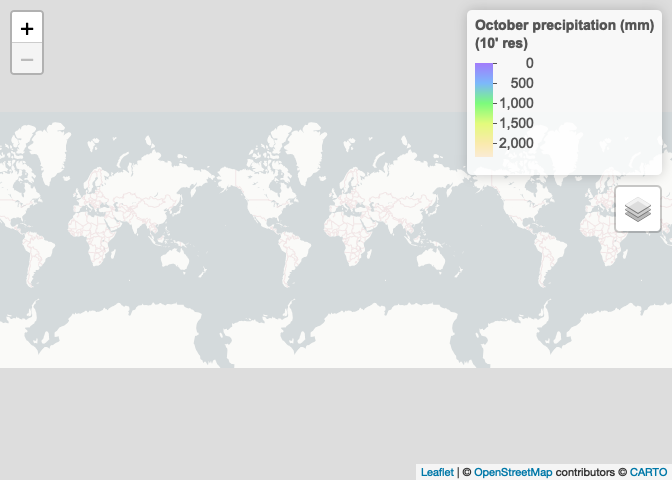
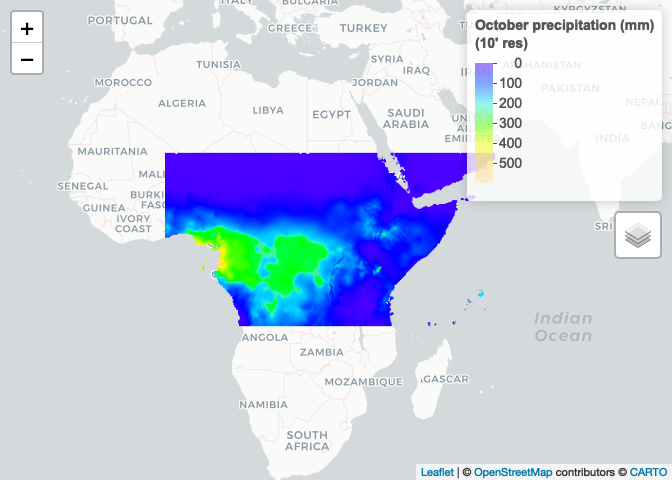
Adam's fixes for leaflet in lab 4

diff --git a/_site/lab-4/index.html b/_site/lab-4/index.html
@@ -66,7 +66,7 @@ getData function. Let’s see what’s in there!</p>
 </span><span class="c1">#OLD ?raster::getData()</span><span class="w">
 </span><span class="c1">#NEW </span><span class="w">
 
-</span><span class="o">?</span><span class="n">geodata</span><span class="o">-</span><span class="n">package</span><span class="w">
+</span><span class="o">?</span><span class="n">geodata</span><span class="w">
 </span></code></pre></div></div>
 
 <p>So you can download administrative boundaries (option name = ‘GADM’),
@@ -215,8 +215,20 @@ arguments…</p>
 
 </span><span class="c1">#NEW </span><span class="w">
 </span><span class="n">ETH_prec_10</span><span class="w"> </span><span class="o">&lt;-</span><span class="w"> </span><span class="n">as</span><span class="p">(</span><span class="n">worldclim_global</span><span class="p">(</span><span class="n">var</span><span class="o">=</span><span class="s2">"prec"</span><span class="p">,</span><span class="w"> </span><span class="n">res</span><span class="o">=</span><span class="m">10</span><span class="p">,</span><span class="w"> </span><span class="n">path</span><span class="o">=</span><span class="n">tempdir</span><span class="p">(),</span><span class="w"> </span><span class="n">version</span><span class="o">=</span><span class="s2">"2.1"</span><span class="p">),</span><span class="w"> </span><span class="s2">"Raster"</span><span class="p">)</span><span class="w">
+</span><span class="n">ETH_prec_10</span><span class="w">
+</span></code></pre></div></div>
 
-</span><span class="c1"># Precipitation from worldclim at the 0.5 resolution (minutes of a degree)... need to specifiy 'lon' and 'lat' of the tile looked for</span><span class="w">
+<div class="language-plaintext highlighter-rouge"><div class="highlight"><pre class="highlight"><code>## class      : RasterStack 
+## dimensions : 1080, 2160, 2332800, 12  (nrow, ncol, ncell, nlayers)
+## resolution : 0.1666667, 0.1666667  (x, y)
+## extent     : -180, 180, -90, 90  (xmin, xmax, ymin, ymax)
+## crs        : +proj=longlat +datum=WGS84 +no_defs 
+## names      : wc2.1_10m_prec_01, wc2.1_10m_prec_02, wc2.1_10m_prec_03, wc2.1_10m_prec_04, wc2.1_10m_prec_05, wc2.1_10m_prec_06, wc2.1_10m_prec_07, wc2.1_10m_prec_08, wc2.1_10m_prec_09, wc2.1_10m_prec_10, wc2.1_10m_prec_11, wc2.1_10m_prec_12 
+## min values :                 0,                 0,                 0,                 0,                 0,                 0,                 0,                 0,                 0,                 0,                 0,                 0 
+## max values :               908,               793,               720,              1004,              2068,              2210,              2381,              1674,              1955,              2328,               718,               806
+</code></pre></div></div>
+
+<div class="language-r highlighter-rouge"><div class="highlight"><pre class="highlight"><code><span class="c1"># Precipitation from worldclim at the 0.5 resolution (minutes of a degree)... need to specifiy 'lon' and 'lat' of the tile looked for</span><span class="w">
 </span><span class="c1">#OLD ETH_prec_0.5 &lt;- raster::getData(name = "worldclim",</span><span class="w">
                      </span><span class="c1">#       var = "prec",</span><span class="w">
                      </span><span class="c1">#       res = 0.5,</span><span class="w">
@@ -270,7 +282,7 @@ arguments…</p>
 </code></pre></div></div>
 
 <div class="language-r highlighter-rouge"><div class="highlight"><pre class="highlight"><code><span class="c1"># Restrict to October and plot</span><span class="w">
-</span><span class="n">ETH_prec_10_Oct</span><span class="w"> </span><span class="o">&lt;-</span><span class="w"> </span><span class="n">ETH_prec_10</span><span class="p">[[</span><span class="m">10</span><span class="p">]]</span><span class="w">
+</span><span class="n">ETH_prec_10_Oct</span><span class="w"> </span><span class="o">&lt;-</span><span class="w"> </span><span class="n">crop</span><span class="p">(</span><span class="n">ETH_prec_10</span><span class="p">[[</span><span class="m">10</span><span class="p">]],</span><span class="w"> </span><span class="nf">c</span><span class="p">(</span><span class="m">0</span><span class="p">,</span><span class="m">60</span><span class="p">,</span><span class="m">-10</span><span class="p">,</span><span class="m">20</span><span class="p">))</span><span class="w"> </span><span class="c1"># xmin, xmax, ymin, ymax</span><span class="w">
 </span><span class="n">ETH_prec_0.5_Oct</span><span class="w"> </span><span class="o">&lt;-</span><span class="w"> </span><span class="n">ETH_prec_0.5</span><span class="p">[[</span><span class="m">10</span><span class="p">]]</span><span class="w">
 
 
@@ -323,11 +335,16 @@ arguments…</p>
 for South Sudan?</em></p>
 
 <div class="language-r highlighter-rouge"><div class="highlight"><pre class="highlight"><code><span class="c1"># Precipitation from worldclim at the 0.5 resolution (minutes of a degree)... Left half of South Sudan</span><span class="w">
-</span><span class="n">SSD_prec_0.5_left</span><span class="w"> </span><span class="o">&lt;-</span><span class="w"> </span><span class="n">raster</span><span class="o">::</span><span class="n">getData</span><span class="p">(</span><span class="n">name</span><span class="w"> </span><span class="o">=</span><span class="w"> </span><span class="s2">"worldclim"</span><span class="p">,</span><span class="w">
-                                     </span><span class="n">var</span><span class="w"> </span><span class="o">=</span><span class="w"> </span><span class="s2">"prec"</span><span class="p">,</span><span class="w">
-                                     </span><span class="n">res</span><span class="w"> </span><span class="o">=</span><span class="w"> </span><span class="m">0.5</span><span class="p">,</span><span class="w">
-                                     </span><span class="n">lon</span><span class="w"> </span><span class="o">=</span><span class="w"> </span><span class="m">20</span><span class="p">,</span><span class="w">
-                                     </span><span class="n">lat</span><span class="w"> </span><span class="o">=</span><span class="w"> </span><span class="m">10</span><span class="p">)</span><span class="w">
+</span><span class="c1"># SSD_prec_0.5_left &lt;- raster::getData(name = "worldclim",</span><span class="w">
+</span><span class="c1">#                                      var = "prec",</span><span class="w">
+</span><span class="c1">#                                      res = 0.5,</span><span class="w">
+</span><span class="c1">#                                      lon = 20,</span><span class="w">
+</span><span class="c1">#                                      lat = 10)</span><span class="w">
+
+
+
+</span><span class="n">SSD_prec_0.5_left</span><span class="w"> </span><span class="o">&lt;-</span><span class="w"> </span><span class="n">as</span><span class="p">(</span><span class="n">worldclim_tile</span><span class="p">(</span><span class="n">var</span><span class="w"> </span><span class="o">=</span><span class="w"> </span><span class="s2">"prec"</span><span class="p">,</span><span class="w"> </span><span class="n">res</span><span class="w"> </span><span class="o">=</span><span class="w"> </span><span class="m">0.5</span><span class="p">,</span><span class="w"> </span><span class="n">lon</span><span class="w"> </span><span class="o">=</span><span class="w"> </span><span class="m">20</span><span class="p">,</span><span class="w"> </span><span class="n">lat</span><span class="w"> </span><span class="o">=</span><span class="w"> </span><span class="m">10</span><span class="p">,</span><span class="w"> </span><span class="n">path</span><span class="o">=</span><span class="n">tempdir</span><span class="p">()),</span><span class="w"> </span><span class="s2">"Raster"</span><span class="p">)</span><span class="w">
+
 
 </span><span class="c1"># Restrict to October</span><span class="w">
 </span><span class="n">SSD_prec_0.5_Oct_left</span><span class="w"> </span><span class="o">&lt;-</span><span class="w"> </span><span class="n">SSD_prec_0.5_left</span><span class="p">[[</span><span class="m">10</span><span class="p">]]</span><span class="w">
@@ -448,13 +465,13 @@ reads in <em>.tif</em> files.</p>
 </span></code></pre></div></div>
 
 <div class="language-plaintext highlighter-rouge"><div class="highlight"><pre class="highlight"><code>## class      : RasterLayer 
-## dimensions : 1080, 2160, 2332800  (nrow, ncol, ncell)
+## dimensions : 180, 360, 64800  (nrow, ncol, ncell)
 ## resolution : 0.1666667, 0.1666667  (x, y)
-## extent     : -180, 180, -90, 90  (xmin, xmax, ymin, ymax)
+## extent     : 0, 60, -10, 20  (xmin, xmax, ymin, ymax)
 ## crs        : +proj=longlat +datum=WGS84 +no_defs 
-## source     : wc2.1_10m_prec_10.tif 
+## source     : memory
 ## names      : wc2.1_10m_prec_10 
-## values     : 0, 2328  (min, max)
+## values     : 0, 596  (min, max)
 </code></pre></div></div>
 
 <div class="language-r highlighter-rouge"><div class="highlight"><pre class="highlight"><code><span class="n">leaflet</span><span class="p">()</span><span class="w"> </span><span class="o">%&gt;%</span><span class="w"> </span><span class="c1"># Plot</span><span class="w">
@@ -829,12 +846,12 @@ a classification model using the “randomForest” package.</p>
 ##         OOB estimate of  error rate: 23%
 ## Confusion matrix:
 ##           Savanna Grassland Wetland Cropland Urban Water class.error
-## Savanna         0         1       2        1     0     0  1.00000000
-## Grassland       1       382       8       89     0     1  0.20582121
-## Wetland         1         9      12        1     0     4  0.55555556
-## Cropland        0       106       0      222     0     0  0.32317073
+## Savanna         0         2       2        0     0     0  1.00000000
+## Grassland       1       383       7       89     0     1  0.20374220
+## Wetland         1        10      12        0     0     4  0.55555556
+## Cropland        0       105       1      222     0     0  0.32317073
 ## Urban           0         2       0        2     0     0  1.00000000
-## Water           0         0       2        0     0   154  0.01282051
+## Water           0         1       2        0     0   153  0.01923077
 </code></pre></div></div>
 
 <p>By inspecting the output of the model, we realize it is not doing a

diff --git a/_posts/2023-03-09-lab-4.md b/_posts/2023-03-09-lab-4.md
@@ -46,7 +46,7 @@ getData function. Let's see what's in there!
 #OLD ?raster::getData()
 #NEW 
 
-?geodata-package
+?geodata
 ```
 
 So you can download administrative boundaries (option name = 'GADM'),
@@ -201,7 +201,19 @@ arguments...
 
 #NEW 
 ETH_prec_10 <- as(worldclim_global(var="prec", res=10, path=tempdir(), version="2.1"), "Raster")
+ETH_prec_10
+```
 
+    ## class      : RasterStack 
+    ## dimensions : 1080, 2160, 2332800, 12  (nrow, ncol, ncell, nlayers)
+    ## resolution : 0.1666667, 0.1666667  (x, y)
+    ## extent     : -180, 180, -90, 90  (xmin, xmax, ymin, ymax)
+    ## crs        : +proj=longlat +datum=WGS84 +no_defs 
+    ## names      : wc2.1_10m_prec_01, wc2.1_10m_prec_02, wc2.1_10m_prec_03, wc2.1_10m_prec_04, wc2.1_10m_prec_05, wc2.1_10m_prec_06, wc2.1_10m_prec_07, wc2.1_10m_prec_08, wc2.1_10m_prec_09, wc2.1_10m_prec_10, wc2.1_10m_prec_11, wc2.1_10m_prec_12 
+    ## min values :                 0,                 0,                 0,                 0,                 0,                 0,                 0,                 0,                 0,                 0,                 0,                 0 
+    ## max values :               908,               793,               720,              1004,              2068,              2210,              2381,              1674,              1955,              2328,               718,               806
+
+``` r
 # Precipitation from worldclim at the 0.5 resolution (minutes of a degree)... need to specifiy 'lon' and 'lat' of the tile looked for
 #OLD ETH_prec_0.5 <- raster::getData(name = "worldclim",
                      #       var = "prec",
@@ -256,7 +268,7 @@ ETH_prec_0.5
 
 ``` r
 # Restrict to October and plot
-ETH_prec_10_Oct <- ETH_prec_10[[10]]
+ETH_prec_10_Oct <- crop(ETH_prec_10[[10]], c(0,60,-10,20)) # xmin, xmax, ymin, ymax
 ETH_prec_0.5_Oct <- ETH_prec_0.5[[10]]
 
 
@@ -311,11 +323,16 @@ for South Sudan?*
 
 ``` r
 # Precipitation from worldclim at the 0.5 resolution (minutes of a degree)... Left half of South Sudan
-SSD_prec_0.5_left <- raster::getData(name = "worldclim",
-                                     var = "prec",
-                                     res = 0.5,
-                                     lon = 20,
-                                     lat = 10)
+# SSD_prec_0.5_left <- raster::getData(name = "worldclim",
+#                                      var = "prec",
+#                                      res = 0.5,
+#                                      lon = 20,
+#                                      lat = 10)
+
+
+
+SSD_prec_0.5_left <- as(worldclim_tile(var = "prec", res = 0.5, lon = 20, lat = 10, path=tempdir()), "Raster")
+
 
 # Restrict to October
 SSD_prec_0.5_Oct_left <- SSD_prec_0.5_left[[10]]
@@ -435,13 +452,13 @@ ETH_prec_10_Oct
 ```
 
     ## class      : RasterLayer 
-    ## dimensions : 1080, 2160, 2332800  (nrow, ncol, ncell)
+    ## dimensions : 180, 360, 64800  (nrow, ncol, ncell)
     ## resolution : 0.1666667, 0.1666667  (x, y)
-    ## extent     : -180, 180, -90, 90  (xmin, xmax, ymin, ymax)
+    ## extent     : 0, 60, -10, 20  (xmin, xmax, ymin, ymax)
     ## crs        : +proj=longlat +datum=WGS84 +no_defs 
-    ## source     : wc2.1_10m_prec_10.tif 
+    ## source     : memory
     ## names      : wc2.1_10m_prec_10 
-    ## values     : 0, 2328  (min, max)
+    ## values     : 0, 596  (min, max)
 
 ``` r
 leaflet() %>% # Plot
@@ -820,12 +837,12 @@ RF_Model
     ##         OOB estimate of  error rate: 23%
     ## Confusion matrix:
     ##           Savanna Grassland Wetland Cropland Urban Water class.error
-    ## Savanna         0         1       2        1     0     0  1.00000000
-    ## Grassland       1       382       8       89     0     1  0.20582121
-    ## Wetland         1         9      12        1     0     4  0.55555556
-    ## Cropland        0       106       0      222     0     0  0.32317073
+    ## Savanna         0         2       2        0     0     0  1.00000000
+    ## Grassland       1       383       7       89     0     1  0.20374220
+    ## Wetland         1        10      12        0     0     4  0.55555556
+    ## Cropland        0       105       1      222     0     0  0.32317073
     ## Urban           0         2       0        2     0     0  1.00000000
-    ## Water           0         0       2        0     0   154  0.01282051
+    ## Water           0         1       2        0     0   153  0.01923077
 
 By inspecting the output of the model, we realize it is not doing a
 super job. Again remember we only have a few observations in our
